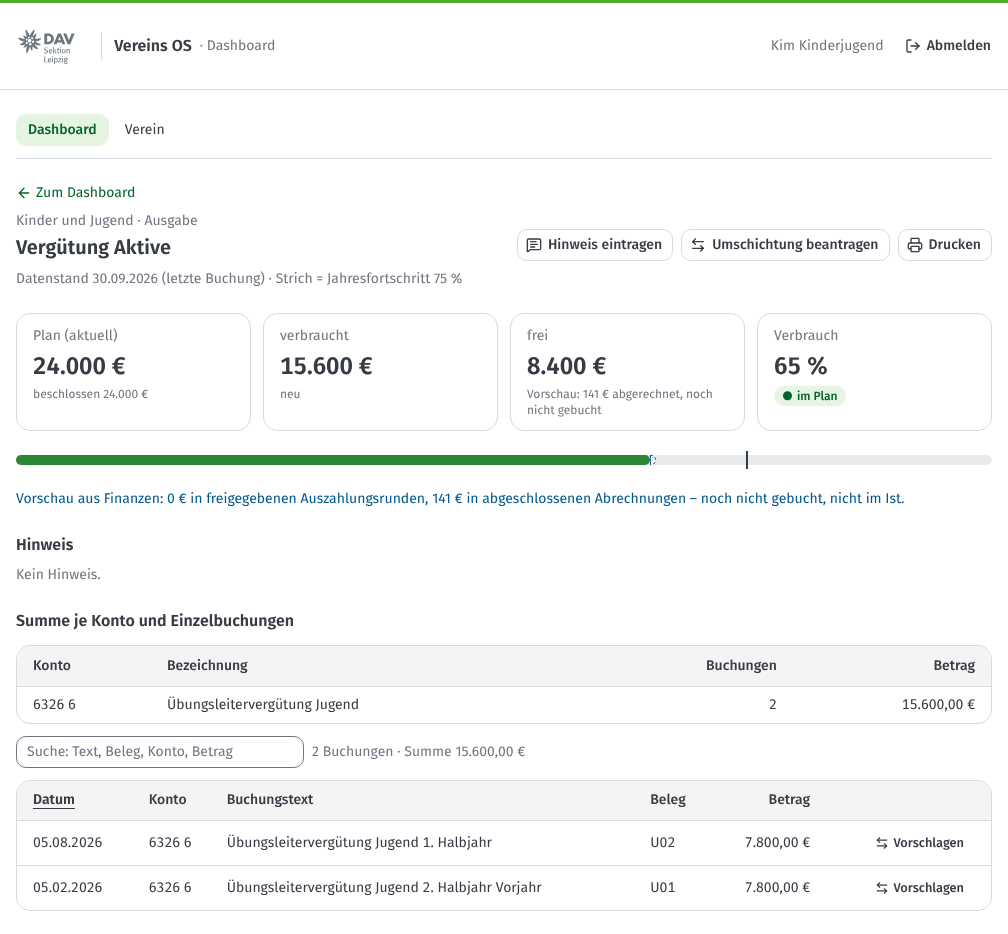
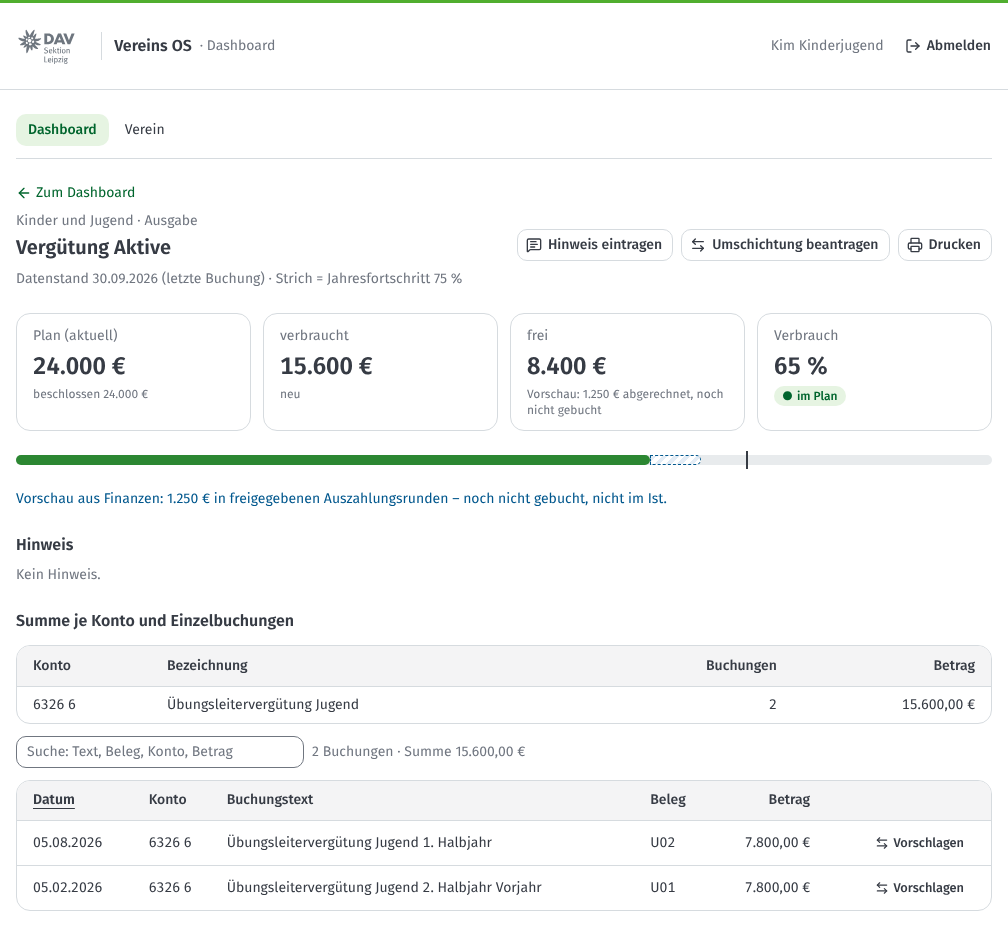
Dashboard freigeben (DT19): Modul DS auf Startseite und Navigation
Nach der Abnahme in TEST (Product Owner 27.10.2026) wird das Modul
Dashboard freigeschaltet (20261107000100_ds_available.sql). Mit
Rechten auf DS zeigt die Startseite „Zu tun“ und das Budget.

- Tests 010_foundation und 700_ds_rights auf „verfügbar“ angepasst
- abnahme-test.md: Abnahme 27.10.2026; Schritt 20 (Meldungstexte)
  bleibt offen
- Anleitung 3.1: Dashboard „freigeschaltet“, Bilder mit den
  Testdaten aus Phase 4 neu erzeugt

Claude-Session: https://claude.ai/code/session_01A2YJh5MKVB1CTJA9tHiBbF

Changed region(s): [[0.1538, 0.5278, 0.6766, 0.5589], [0.7073, 0.5278, 0.8919, 0.5589], [0.5843, 0.4036, 0.7073, 0.4347]]

diff --git a/docs/specs/ds-dashboard/abnahme-test.md b/docs/specs/ds-dashboard/abnahme-test.md
@@ -1,6 +1,6 @@
 # Abnahme-Test: Dashboard (DS) mit Bereich Budget v0.2
 
-Umsetzungsdatei zu Spec T19 ([tasks.md](tasks.md), DT19). Grundlage: spec.md v0.2 Abschnitte 6 und 9, [plan.md](plan.md). Stand: 26.10.2026 (vorbereitet; Abnahme durch den Product Owner offen).
+Umsetzungsdatei zu Spec T19 ([tasks.md](tasks.md), DT19). Grundlage: spec.md v0.2 Abschnitte 6 und 9, [plan.md](plan.md). Stand: 27.10.2026 (durchgeführt; Abnahme durch den Product Owner am 27.10.2026).
 
 Legende: **erledigt** = von Claude Code geprüft · **offen (PO)** = mit Testzugang in der Vorschau gegen TEST, führt der Product Owner aus · **wartet** = Voraussetzung fehlt.
 
@@ -8,10 +8,10 @@ Legende: **erledigt** = von Claude Code geprüft · **offen (PO)** = mit Testzug
 
 | Punkt | Stand |
 |---|---|
-| Migrationen DS/Budget (`20261103000100`, `20261105100100`–`…0700`, `20261106100100`) in TEST (`npx supabase db push --linked`, ggf. `--include-all`) | offen (PO) |
-| Seed `SEED_WITH_DS=1 supabase/seed.sh` in TEST (nach `seed.sql`; für Schritt 10 auch `SEED_WITH_FI=1`) | offen (PO) |
+| Migrationen DS/Budget (`20261103000100`, `20261105100100`–`…0700`, `20261106100100`) in TEST (`npx supabase db push --linked`, ggf. `--include-all`) | erledigt (PO 27.10.2026, TEST war aktuell) |
+| Seed `SEED_WITH_DS=1 supabase/seed.sh` in TEST (nach `seed.sql`; für Schritt 10 auch `SEED_WITH_FI=1`) | erledigt (PO 27.10.2026; alte Budgetdaten 2026/2027 vorher gelöscht) |
 | Oberfläche Phase 3 (PR #79) gemergt | erledigt |
-| Testzugänge: Vorstand Test (`test.vorstand@`, Budgetpflege), Schatzmeisterin Test (`test.schatzmeisterin@`, Budgetpflege), Kim Kinderjugend (`test.kiju@`, Referent:in K&J), Rita Referentin (`test.referent@`, Klettern), Geschäftsstelle, Admin | offen (PO: nach dem Seed) |
+| Testzugänge: Vorstand Test (`test.vorstand@`, Budgetpflege), Schatzmeisterin Test (`test.schatzmeisterin@`, Budgetpflege), Kim Kinderjugend (`test.kiju@`, Referent:in K&J), Rita Referentin (`test.referent@`, Klettern), Geschäftsstelle, Admin | erledigt (Seed 27.10.2026) |
 
 ## 2. Automatische Prüfungen
 
@@ -29,26 +29,26 @@ Erwartete Zahlen gelten für den Seed im laufenden Jahr J (Datenstand 30.09.J).
 
 | # | Testzugang | Schritt | Erwartet | Ergebnis |
 |---|---|---|---|---|
-| 1 | Kim Kinderjugend | `/dashboard` | Sicht „Mein Referat: Kinder und Jugend“; Kacheln Plan 36.000 €, verbraucht 23.950 €; Zeilen Vergütung Aktive, Fahrten und Freizeiten (Hinweis „Herbstfreizeit …“), Material Jugend (▲ knapp); Strich bei 75 % | offen (PO) |
-| 2 | Kim Kinderjugend | Zeile „Vergütung Aktive“ | Vorschau +1.250 € schraffiert, „nicht im Ist“; Ist 15.600 € (R18) | offen (PO) |
-| 3 | Kim Kinderjugend | Budget des Vereins → Klettern → Material Klettern | nur Summen, „Einzelbuchungen siehst du nur für dein Referat.“ (R13) | offen (PO) |
-| 4 | Kim Kinderjugend | Fahrten und Freizeiten öffnen | Einzelbuchungen inkl. Storno −150 €; Suche und Sortierung | offen (PO) |
-| 5 | Kim Kinderjugend | Hinweis ändern; 501 Zeichen | gespeichert; bei 501 Zeichen Meldung „Der Hinweis darf höchstens 500 Zeichen haben.“ | offen (PO) |
-| 6 | Kim Kinderjugend | Umschichtung Vergütung Aktive → Fahrten 30.000 € | „Der Betrag ist höher als der Plan von ‚Vergütung Aktive‘.“ (R15) | offen (PO) |
-| 7 | Rita Referentin | `/dashboard`, Material Klettern | „Startgebühr Bouldercup“ mit „Vorschlag offen“; Umbuchung +200 € sichtbar | offen (PO) |
-| 8 | Vorstand Test | Budgetpflege → Anträge | Umschichtung von Kim bestätigen; eigene Umschichtung (Wettkämpfe → Material Klettern) zeigt nur „Zurückziehen“ | offen (PO) |
-| 9 | Schatzmeisterin Test | Budgetpflege → Anträge | Umschichtung von Vorstand Test bestätigen; Vorschlag von Rita „Annehmen (diese Buchung)“ → Buchung bei Wettkämpfe (Vier-Augen-Prinzip) | offen (PO) |
-| 10 | Schatzmeisterin Test | Budgetpflege → Import, Auszahlungsrunden | Runde 901 „gebucht (Abgleich)“, Runde 902 „noch nicht gebucht“; „Als gebucht markieren“ → Vorschau bei K&J weg | offen (PO) |
-| 11 | Schatzmeisterin Test | `/dashboard/verein` | nicht zugeordnet: Bürobedarf 312,50 €; Prüfung: „Export unvollständig: Konto 6340 6“; unsichere Regeln 4000–7999 und 6350 7; Leistungssport mit zwei „Vergütung Aktive“ in eigenen Gesamtbudgets | offen (PO) |
-| 12 | Schatzmeisterin Test | Zuordnung: neue Regel „6350 7“ ohne Änderung | „Für diese Kontoangabe gibt es schon eine gültige Regel. (6350 7)“; Regel 6350 7 auf „ok“ ändern → im Verlauf alte Regel beendet | offen (PO) |
-| 13 | Schatzmeisterin Test | Finanzplan: echte Struktur der Excel „Finanzen Sektion JJJJ.xlsx“ mit fiktiven Zahlen oder einer Kopie ohne Personendaten | Vorschau mit neuen/geänderten Posten; bei falscher Summenzeile „Die Summe der Budgetposten passt nicht …“ | offen (PO) |
-| 14 | Schatzmeisterin Test | Import: DATEV-Kontenblätter (Testexport ohne Echtdaten bzw. fiktiv) | Vorschau mit Zählung und Prüfung; Übernehmen ersetzt den Import | offen (PO) |
-| 15 | Vorstand Test | Jahr J+1 | Datenstand 10.03.J+1; Vorjahr am gleichen Tag mit ▲/▼ (Vergütung Aktive K&J 7.800 €) (R20) | offen (PO) |
-| 16 | Vorstand Test | „Drucken“ | A4 quer, alle Gesamtbudgets aufgeklappt, Datenstand und Druckdatum (US-DS-19) | offen (PO) |
-| 17 | Admin | Rechtevorlage „Budgetpflege“, „Referent:in“ | DS lesen + „Budget pflegen“; Referent:in DS lesen, Reichweite Referat; „Budget pflegen“ bei Reichweite Referat gesperrt | offen (PO) |
-| 18 | Person ohne DS (z. B. Freigabe Touren und Kurse) | `/dashboard` | /kein-zugriff | offen (PO) |
-| 19 | alle | Telefon, 375 px | Kacheln untereinander, Zeilen als Karten, keine horizontale Verschiebung | offen (PO) |
-| 20 | PO | Meldungstexte [OFFEN] in `contracts/error-codes.md` (Bereich Budget) | bestätigt oder geändert | offen (PO) |
+| 1 | Kim Kinderjugend | `/dashboard` | Sicht „Mein Referat: Kinder und Jugend“; Kacheln Plan 36.000 €, verbraucht 23.950 €; Zeilen Vergütung Aktive, Fahrten und Freizeiten (Hinweis „Herbstfreizeit …“), Material Jugend (▲ knapp); Strich bei 75 % | erledigt (PO 27.10.2026) |
+| 2 | Kim Kinderjugend | Zeile „Vergütung Aktive“ | Vorschau +1.250 € schraffiert, „nicht im Ist“; Ist 15.600 € (R18) | erledigt (PO 27.10.2026) |
+| 3 | Kim Kinderjugend | Budget des Vereins → Klettern → Material Klettern | nur Summen, „Einzelbuchungen siehst du nur für dein Referat.“ (R13) | erledigt (PO 27.10.2026) |
+| 4 | Kim Kinderjugend | Fahrten und Freizeiten öffnen | Einzelbuchungen inkl. Storno −150 €; Suche und Sortierung | erledigt (PO 27.10.2026) |
+| 5 | Kim Kinderjugend | Hinweis ändern; 501 Zeichen | gespeichert; bei 501 Zeichen Meldung „Der Hinweis darf höchstens 500 Zeichen haben.“ | erledigt (PO 27.10.2026) |
+| 6 | Kim Kinderjugend | Umschichtung Vergütung Aktive → Fahrten 30.000 € | „Der Betrag ist höher als der Plan von ‚Vergütung Aktive‘.“ (R15) | erledigt (PO 27.10.2026) |
+| 7 | Rita Referentin | `/dashboard`, Material Klettern | „Startgebühr Bouldercup“ mit „Vorschlag offen“; Umbuchung +200 € sichtbar | erledigt (PO 27.10.2026) |
+| 8 | Vorstand Test | Budgetpflege → Anträge | Umschichtung von Kim bestätigen; eigene Umschichtung (Wettkämpfe → Material Klettern) zeigt nur „Zurückziehen“ | erledigt (PO 27.10.2026) |
+| 9 | Schatzmeisterin Test | Budgetpflege → Anträge | Umschichtung von Vorstand Test bestätigen; Vorschlag von Rita „Annehmen (diese Buchung)“ → Buchung bei Wettkämpfe (Vier-Augen-Prinzip) | erledigt (PO 27.10.2026) |
+| 10 | Schatzmeisterin Test | Budgetpflege → Import, Auszahlungsrunden | Runde 901 „gebucht (Abgleich)“, Runde 902 „noch nicht gebucht“; „Als gebucht markieren“ → Vorschau bei K&J weg | erledigt (PO 27.10.2026) |
+| 11 | Schatzmeisterin Test | `/dashboard/verein` | nicht zugeordnet: Bürobedarf 312,50 €; Prüfung: „Export unvollständig: Konto 6340 6“; unsichere Regeln 4000–7999 und 6350 7; Leistungssport mit zwei „Vergütung Aktive“ in eigenen Gesamtbudgets | erledigt (PO 27.10.2026) |
+| 12 | Schatzmeisterin Test | Zuordnung: neue Regel „6350 7“ ohne Änderung | „Für diese Kontoangabe gibt es schon eine gültige Regel. (6350 7)“; Regel 6350 7 auf „ok“ ändern → im Verlauf alte Regel beendet | erledigt (PO 27.10.2026) |
+| 13 | Schatzmeisterin Test | Finanzplan: echte Struktur der Excel „Finanzen Sektion JJJJ.xlsx“ mit fiktiven Zahlen oder einer Kopie ohne Personendaten | Vorschau mit neuen/geänderten Posten; bei falscher Summenzeile „Die Summe der Budgetposten passt nicht …“ | erledigt (PO 27.10.2026) |
+| 14 | Schatzmeisterin Test | Import: DATEV-Kontenblätter (Testexport ohne Echtdaten bzw. fiktiv) | Vorschau mit Zählung und Prüfung; Übernehmen ersetzt den Import | erledigt (PO 27.10.2026) |
+| 15 | Vorstand Test | Jahr J+1 | Datenstand 10.03.J+1; Vorjahr am gleichen Tag mit ▲/▼ (Vergütung Aktive K&J 7.800 €) (R20) | erledigt (PO 27.10.2026) |
+| 16 | Vorstand Test | „Drucken“ | A4 quer, alle Gesamtbudgets aufgeklappt, Datenstand und Druckdatum (US-DS-19) | erledigt (PO 27.10.2026) |
+| 17 | Admin | Rechtevorlage „Budgetpflege“, „Referent:in“ | DS lesen + „Budget pflegen“; Referent:in DS lesen, Reichweite Referat; „Budget pflegen“ bei Reichweite Referat gesperrt | erledigt (PO 27.10.2026) |
+| 18 | Person ohne DS (z. B. Freigabe Touren und Kurse) | `/dashboard` | /kein-zugriff | erledigt (PO 27.10.2026) |
+| 19 | alle | Telefon, 375 px | Kacheln untereinander, Zeilen als Karten, keine horizontale Verschiebung | erledigt (PO 27.10.2026) |
+| 20 | PO | Meldungstexte [OFFEN] in `contracts/error-codes.md` (Bereich Budget) | bestätigt oder geändert | offen (PO): mit der Abnahme nicht ausdrücklich bestätigt; Oberfläche nutzt die Vorschläge |
 
 ## 4. Befunde
 
@@ -58,6 +58,6 @@ Erwartete Zahlen gelten für den Seed im laufenden Jahr J (Datenstand 30.09.J).
 
 ## 5. Ergebnis
 
-Abnahme offen. Nach der Abnahme: Freigabe des Moduls (`ad_modules.is_available` für DS, eigener Pull Request mit Anleitung „freigeschaltet“), danach zeigt die Startseite das Dashboard (US-DS-20).
+Abgenommen am 27.10.2026 (Product Owner). Die Schritte aus Abschnitt 3 wurden nicht einzeln protokolliert. Freigabe des Moduls mit `20261107000100_ds_available.sql`; danach zeigt die Startseite das Dashboard (US-DS-20). Offen: Schritt 20 (Meldungstexte).
 
 Vor Echtdaten (Finanzplan und DATEV-Export der Sektion in PROD) offen: Eintrag im Verarbeitungsverzeichnis (01-erhebung.md F), rollen.md (Spalte DS, Vorlage Budgetpflege; uebergabe-administration.md D5) – beides fachliche Dokumente, Auftrag des Product Owners nötig.

diff --git a/docs/anleitung/README.md b/docs/anleitung/README.md
@@ -1,6 +1,7 @@
 # Anleitung Vereins OS
 
-Stand: 27.10.2026 · Version 3.0
+Stand: 27.10.2026 · Version 3.1
+Änderungen v3.1: Dashboard ist freigeschaltet (Hinweise „in Vorbereitung“ entfernt); Startseite zeigt mit Rechten auf das Dashboard „Zu tun“ und das Budget; Bilder des Dashboards mit den Testdaten von Leistungssport.
 Änderungen v3.0: neues Modul Planungshilfe Touren und Kurse (in Vorbereitung): Abschnitte für Referent:innen und Geschäftsstelle (Planung anlegen, Schritte 1–7, einreichen, freigeben, Yolawo, Ausgaben, PDF, Kostenauswertung); Bilder folgen vor der Freischaltung.
 Änderungen v2.0: neues Modul Dashboard (Bereich Budget, in Vorbereitung) mit neuem Teil „Anleitung für die Budgetpflege“; Abschnitte Dashboard für Referent:innen und Geschäftsstelle, Startseite mit Dashboard, Kennzeichen „Budget pflegen“ in der Rechtevorlage, neue Wörter in der Wörterliste.
 Änderungen v1.1: Gruppen, Anwesenheitserfassung und Finanzen sind freigeschaltet (Hinweise „in Vorbereitung“ entfernt, Startseite mit Kachel Finanzen); Abschnitt „Anleitung aktualisieren“ um das Nachziehen im Nachgang ergänzt.
@@ -31,7 +32,7 @@ Du siehst im Vereins OS nur die Module, für die du Rechte hast.
 
 | Modul | Wofür? | Stand |
 |---|---|---|
-| Dashboard | Budget des Referats und des Vereins: Plan, verbraucht, frei, Ampel; Budgetpflege | in Vorbereitung |
+| Dashboard | Budget des Referats und des Vereins: Plan, verbraucht, frei, Ampel; Budgetpflege | freigeschaltet |
 | Administration | Personen, Zugänge, Rechte und Stammdaten | freigeschaltet |
 | Ehrenamtsmanagement | Aktive, Lizenzen und Qualifikationen, Ehrenamtsstatus | freigeschaltet |
 | Gruppen | Gruppen, Teilnehmer:innen, Erziehungsberechtigte, Verträge | freigeschaltet |

diff --git a/docs/anleitung/03-geschaeftsstelle.md b/docs/anleitung/03-geschaeftsstelle.md
@@ -16,7 +16,7 @@ Du darfst in allen Fachmodulen **verwalten**. Das heißt: Du siehst alle Referat
 | Gruppen | Gruppen, Teilnehmer:innen, Erziehungsberechtigte, Verträge, Betreuung | freigeschaltet |
 | Anwesenheitserfassung | Einsätze aller Referate erfassen, korrigieren, löschen | freigeschaltet |
 | Finanzen | Halbjahresabrechnung berechnen, abschließen, auszahlen | freigeschaltet |
-| Dashboard | Budget aller Referate und des Vereins sehen, mit Einzelbuchungen und Prüfung | in Vorbereitung |
+| Dashboard | Budget aller Referate und des Vereins sehen, mit Einzelbuchungen und Prüfung | freigeschaltet |
 | Planungshilfe Touren und Kurse | Planungen aller Referate bearbeiten, in Yolawo anlegen, abschließen, Kostenauswertung | in Vorbereitung |
 
 Vieles funktioniert genauso wie bei den Referent:innen. Dort ist es Schritt für Schritt erklärt: [Anleitung für Referent:innen](02-referentinnen.md). Hier steht, was **du zusätzlich** tust.
@@ -24,8 +24,6 @@ Vieles funktioniert genauso wie bei den Referent:innen. Dort ist es Schritt für
 ---
 
 ## Dashboard
-
-*Das Dashboard ist in Vorbereitung.*
 
 Du siehst das Budget **aller Referate** mit Einzelbuchungen. Unter **„Verein“** stehen zusätzlich die Summen des Vereins, die Gesamtbudgets nach Ampel, die **nicht zugeordneten Buchungen** und die **Prüfung** des letzten DATEV-Exports.
 

diff --git a/docs/anleitung/02-referentinnen.md b/docs/anleitung/02-referentinnen.md
@@ -10,7 +10,7 @@ Du siehst die Daten **deines Referats**. Hast du mehrere Referate, siehst du all
 
 | Modul | Was du dort tust | Stand |
 |---|---|---|
-| Dashboard | Budget deines Referats sehen, Hinweise eintragen, Umschichtungen beantragen | in Vorbereitung |
+| Dashboard | Budget deines Referats sehen, Hinweise eintragen, Umschichtungen beantragen | freigeschaltet |
 | Ehrenamtsmanagement | Aktive deines Referats finden, anlegen und pflegen | freigeschaltet |
 | Anwesenheitserfassung | Trainings, Fahrten und andere Einsätze deines Referats erfassen | freigeschaltet |
 | Finanzen | Abrechnungen deines Referats als „sachlich richtig“ bestätigen | freigeschaltet (für Kinder und Jugend und Leistungssport) |
@@ -20,7 +20,7 @@ Du siehst die Daten **deines Referats**. Hast du mehrere Referate, siehst du all
 
 ## Dashboard: Budget meines Referats
 
-*Das Dashboard ist in Vorbereitung. Die Bilder zeigen erfundene Testdaten.*
+*Die Bilder zeigen erfundene Testdaten.*
 
 Im Dashboard siehst du, wie viel Geld dein Referat im Jahr hat und wie viel schon ausgegeben ist. Du musst nicht mehr nachfragen.
 

diff --git a/docs/specs/ds-dashboard/tasks.md b/docs/specs/ds-dashboard/tasks.md
@@ -37,4 +37,4 @@ Stand: 26.10.2026 · Grundlage: spec.md v0.2 (Ready), 02-stories.md DS v0.2, 02-
 
 - [x] DT17 (spec T17) Seed `supabase/seed-ds.sql` (`SEED_WITH_DS=1`): Fälle 1–9 aus spec 9 inkl. Leistungssport mit doppeltem Namen, Einzelbuchungsregel, Doppelbuchung, Storno, Umbuchung, Vorjahresbuchung, unvollständiges Konto, Folgejahr, Auszahlungsrunden 901/902; Testzugang Schatzmeisterin Test (Budgetpflege)
 - [x] DT18 (spec T18) Anleitung: neuer Teil „Budgetpflege“ (05), Abschnitte Dashboard in 01–04, Version 2.0 (mit Phase 3, CLAUDE.md „Anleitung im selben Pull Request“)
-- [ ] DT19 (spec T19) abnahme-test.md (vorbereitet, Abnahme durch den PO offen); `ad_modules.is_available` für DS mit der Freigabe (eigener PR nach der Abnahme)
+- [x] DT19 (spec T19) abnahme-test.md (Abnahme durch den PO am 27.10.2026); `ad_modules.is_available` für DS (`20261107000100_ds_available.sql`)

diff --git a/docs/anleitung/05-budgetpflege.md b/docs/anleitung/05-budgetpflege.md
@@ -4,7 +4,7 @@ Für alle mit der Rechtevorlage „Budgetpflege“, zum Beispiel 1. Vorsitzende:
 
 [Zurück zur Übersicht](README.md) · Zuerst lesen: [Erste Schritte](01-erste-schritte.md) und den Abschnitt [Dashboard](02-referentinnen.md#dashboard-budget-meines-referats)
 
-*Das Dashboard ist in Vorbereitung. Die Bilder zeigen erfundene Testdaten.*
+*Die Bilder zeigen erfundene Testdaten.*
 
 ## Was du tust
 
